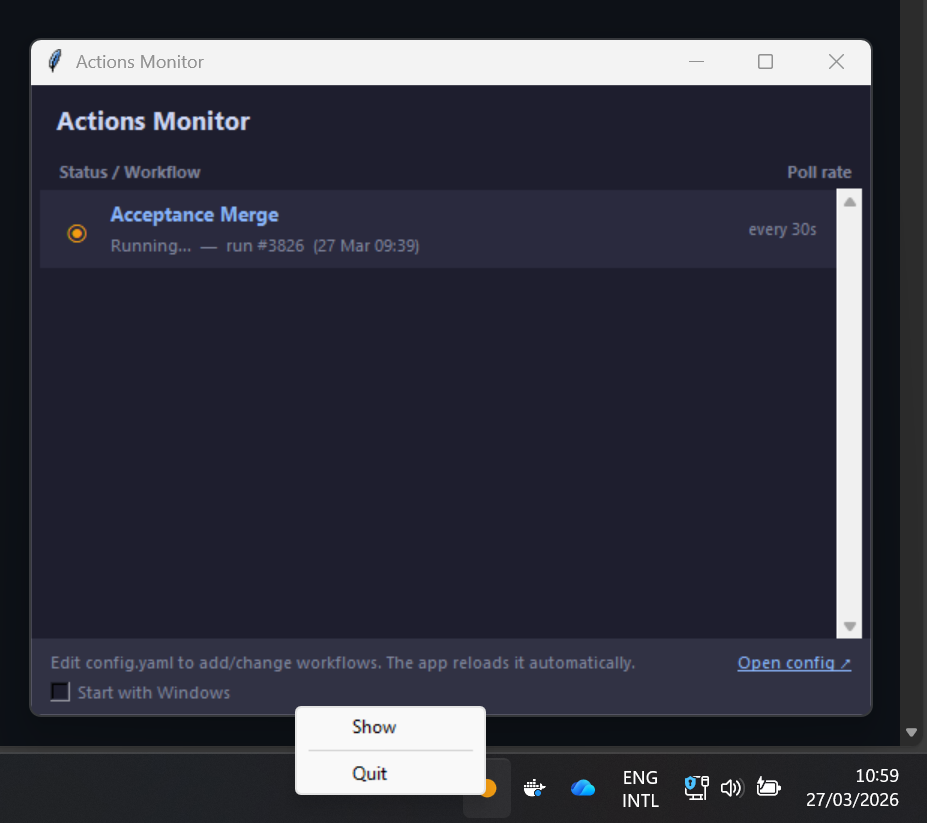
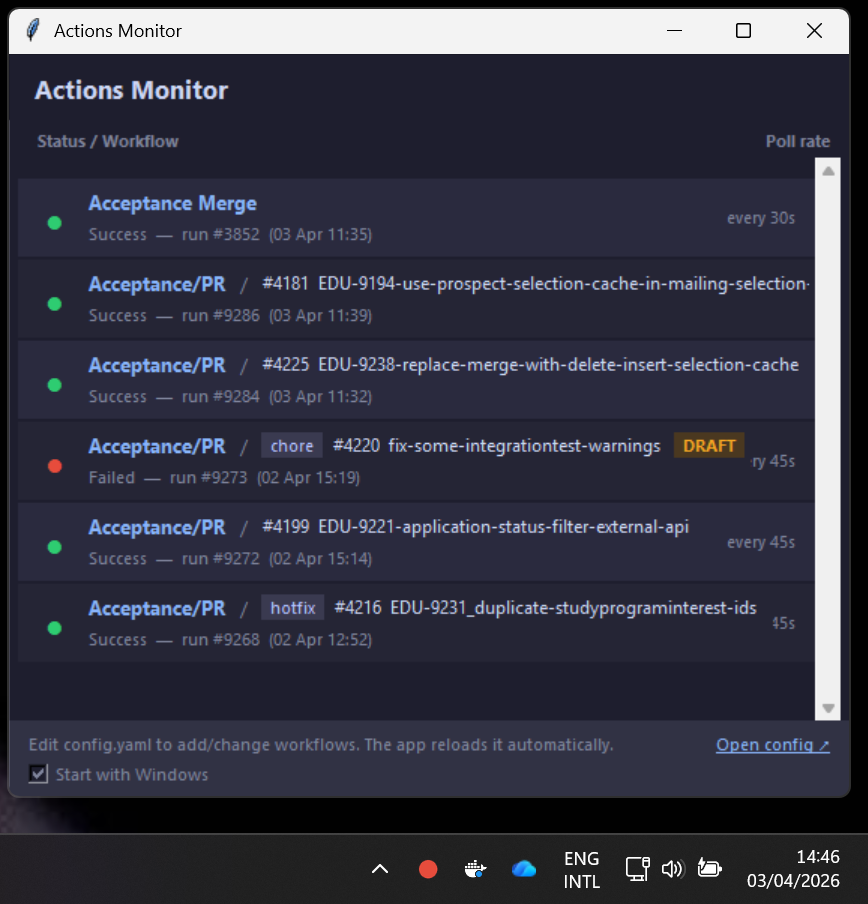
Update README and screenshot for PR mode

Changed region(s): [[0.0, 0.0, 1.0, 1.0]]

diff --git a/README.md b/README.md
@@ -7,6 +7,7 @@ A lightweight Windows tray application that monitors GitHub Actions workflow sta
 ## Features
 
 - **Live status** — polls your configured workflows and shows green / orange / red status indicators
+- **PR mode** — monitor your own pull request builds: one row per active PR, with branch prefix tags, PR numbers, and a DRAFT indicator. Stale rows auto-remove after a configurable timeout
 - **System tray** — minimises to tray; tray icon colour reflects the worst combined state across all workflows
 
   ![System tray icon](docs/systemtray.png)
@@ -53,6 +54,10 @@ github_token: "ghp_xxxxxxxxxxxxxxxxxxxx"
 
 ### Adding workflows
 
+There are two modes: **branch mode** (default) monitors a specific workflow+branch combo, and **PR mode** monitors your own pull request builds.
+
+#### Branch mode
+
 Paste the workflow URL straight from your browser:
 
 ```yaml
@@ -72,6 +77,24 @@ Branch filters are extracted automatically from the URL query string, or you can
   - url: https://github.com/your-org/your-repo/actions/workflows/ci.yml
     branch: main
 ```
+
+#### PR mode
+
+Set `mode: "pr"` to see one row per active PR you authored. Your GitHub username is auto-detected from the token — no extra config needed.
+
+```yaml
+  - url: https://github.com/your-org/your-repo/actions/workflows/ci.yml
+    name: "CI — My PRs"
+    mode: "pr"
+    polling_rate: 45
+    max_prs: 5             # max PR rows to show (default: 5)
+    pr_stale_after: 300    # seconds before removing a stale row (default: 300)
+```
+
+PR rows show:
+- Branch prefix tags (e.g. `hotfix`, `feature`, `chore`) parsed from the branch name
+- PR number and cleaned branch name
+- A **DRAFT** badge when the PR is a draft
 
 ### Notifications
 
